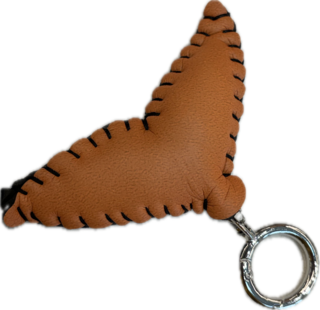
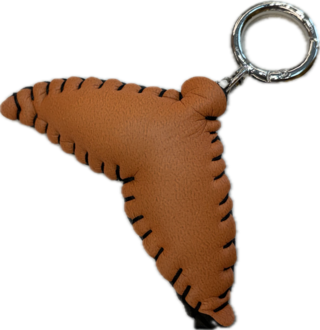
phone: update keyring photo to ring-at-top-right orientation
Re-copy the re-saved source (now clasp-ring at top-right, tail hanging down),
re-trim/resize to 320px. Cache-bust image ?v=2; bump phone.js v10.

diff --git a/haenyeo/phone.js b/haenyeo/phone.js
@@ -901,7 +901,7 @@
     const im = new Image();
     im.onload = ()=>{ document.querySelectorAll('.ph-charm-hang').forEach(h=>{
       h.innerHTML = '<img class="ph-charm-img" src="'+im.src+'" alt="Dolphin-tail keyring">'; }); };
-    im.src = 'assets/dolphin-keyring.png?v=1';   // the real keepsake photo (transparent PNG)
+    im.src = 'assets/dolphin-keyring.png?v=2';   // the real keepsake photo (transparent PNG)
   }
   appbar.querySelector('.back').onclick = backHome;
   ov.querySelectorAll('.ph-home-ind').forEach(h=>{

diff --git a/haenyeo/index.html b/haenyeo/index.html
@@ -747,7 +747,7 @@
 <script src="game.js?v=70"></script>
 <script src="render-atashinchi.js?v=73"></script>
 <script src="restaurant.js?v=11"></script>
-<script src="phone.js?v=9"></script>
+<script src="phone.js?v=10"></script>
 <script src="music.js"></script>
 <script src="weather.js?v=3"></script>
 <script src="https://cdn.jsdelivr.net/npm/@supabase/supabase-js@2"></script>
